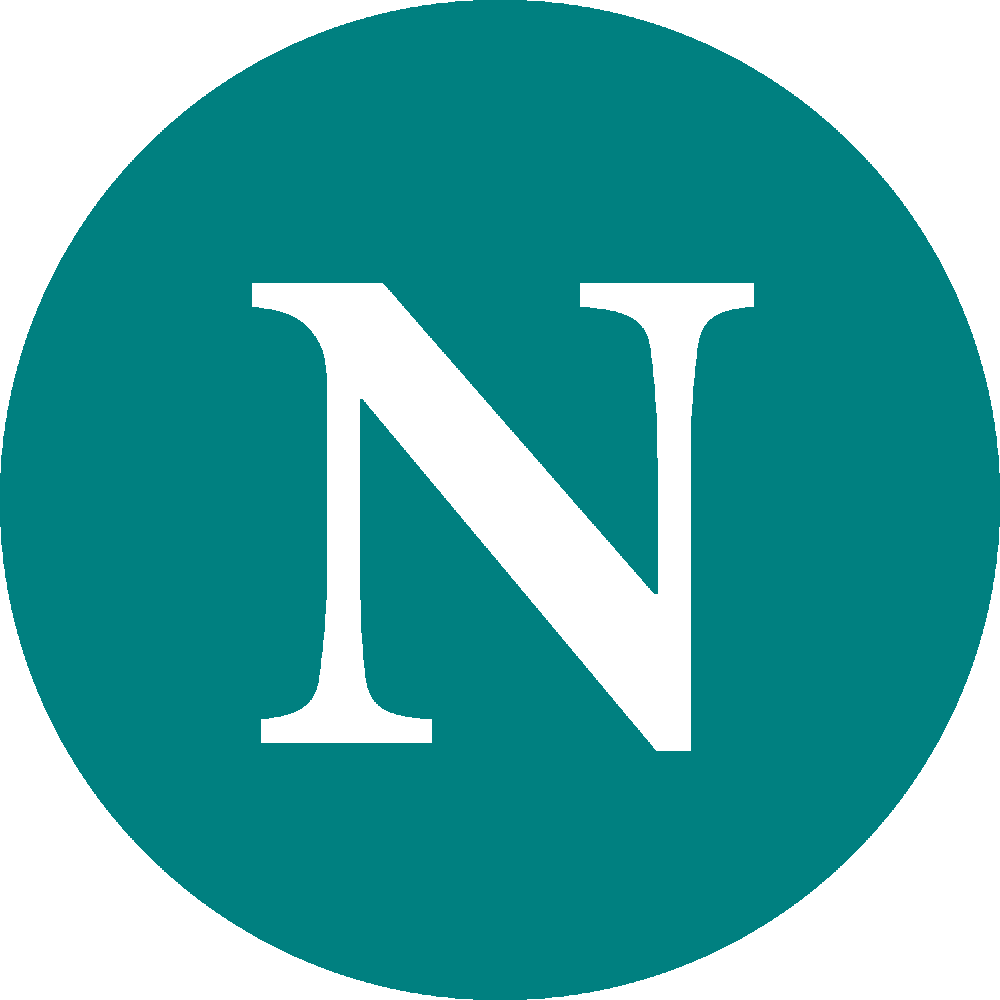
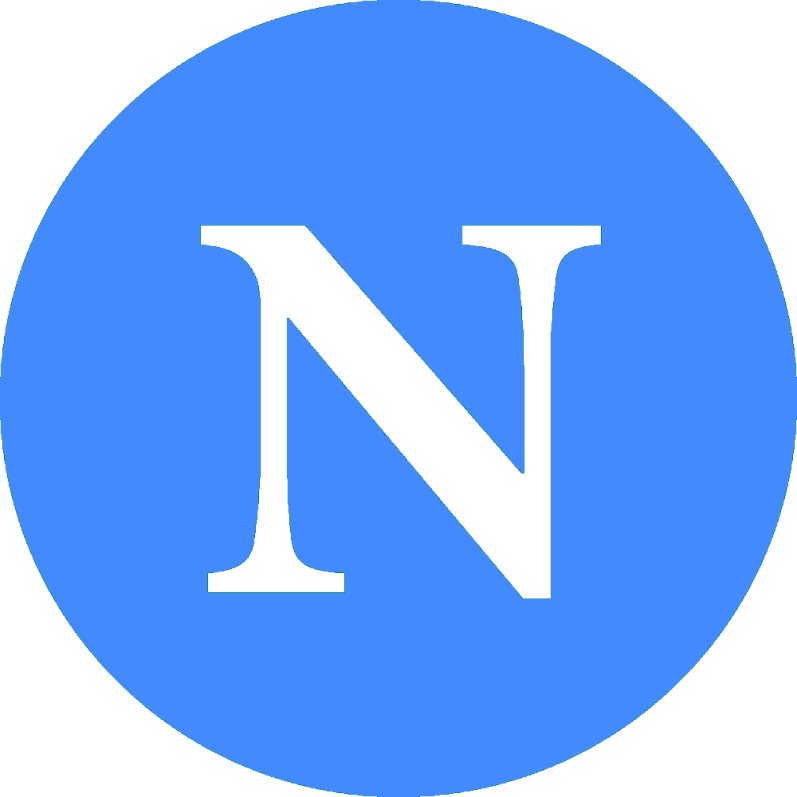
Changed cards text colors, images and background

diff --git a/css/style.css b/css/style.css
@@ -72,20 +72,6 @@ body {
     0 6px 20px 0 rgba(0, 0, 0, 0.19);
 }
 
-/* .first-card {
-  position: relative;
-  display: flex;
-  flex-direction: column;
-  min-width: 0;
-  word-wrap: break-word;
-  background-color: transparent;
-  /* background-image: url(../img/card-background.png); */
-/* background-clip: border-box;
-border-radius: 0.25rem; */
-/* min-height: 250px; */
-/* opacity: 0.90; */
-/* } */
-
 .first-card {
   z-index: -1;
 }
@@ -149,27 +135,22 @@ canvas {
 .card-text {
   font-weight: 450;
   font-size: 20px;
-
-
 }
 
 .card-text-faded {
   font-size: 16px;
-  color: grey;
-}
-
-.dark-text-faded {
-  font-size: 16px;
-  color: #fff;
+  font-weight: 540;
+  color: rgb(71, 71, 71);
 }
 
 .card-text-gold {
-  font-weight: 100;
   font-size: 21px;
+  font-weight: 500;
 }
 
 .card-text-paragraph {
-  font-size: 17px;
+  font-size: 19px;
+  font-weight: 300;
 }
 
 .card-text-date {
@@ -184,10 +165,16 @@ canvas {
   margin-bottom: 0;
 }
 
-.card-text-link {
+/* .card-text-link {
   color: #A73F15;
   text-decoration: none;
   font-size: 15px;
+} */
+
+.card-text-link {
+  color: #01C2FF;
+  text-decoration: none;
+  font-size: 16px;
 }
 
 .card-text-link:hover {
@@ -220,34 +207,6 @@ canvas {
   font-size: large;
   font-weight: large;
 }
-
-.contact-info {
-  -webkit-user-select: none;
-  /* Safari */
-  -moz-user-select: none;
-  /* Firefox */
-  -ms-user-select: none;
-  /* IE10+/Edge */
-  user-select: none;
-  /* Standard */
-}
-
-.contact-brand {
-  -webkit-user-select: none;
-  /* Safari */
-  -moz-user-select: none;
-  /* Firefox */
-  -ms-user-select: none;
-  /* IE10+/Edge */
-  user-select: none;
-  /* Standard */
-}
-
-/* #particles-js {
-  position: absolute;
-  width: 100%;
-  height: 160%;
-} */
 
 #particles-js {
   width: 100%;
@@ -305,13 +264,11 @@ canvas {
 
 @keyframes bg-change-to-dark {
   from {
-    background-color: #B721FF;
-    /* opacity: 1; */
+    background-color: #448AFF;
   }
 
   to {
     background-color: #25233a;
-    /* opacity: 0; */
   }
 }
 
@@ -321,7 +278,7 @@ canvas {
   }
 
   to {
-    background-color: #B721FF;
+    background-color: #448AFF;
   }
 }
 

diff --git a/js/darkmode.js b/js/darkmode.js
@@ -4,10 +4,6 @@ var counter = 0;
 $("input").click(function () {
     counter = 0
     darkMode = !darkMode
-
-    // $("body").css("animation", "change-to-light");
-    // $("body").css("animation", "3s");
-    // $("body").css("-webkit-animation-play-state", "running");
 });
 
 function animate() {
@@ -35,15 +31,14 @@ function animate() {
         $(".card").css("background-color", "#383358")
         $(".card-text-gold").css("color", "#1EA51D")
 
-
-        // $(".card").removeClass("card")
+        $(".card-text-faded").css("color", "#CECECE")
     } else {
         counter++;
         $("body").addClass("bg-lightMode");
         $("body").removeClass("bg-darkMode");
 
         if (counter % 120 == 0) {
-            $('body').css("background", "#B721FF")
+            $('body').css("background", "#448AFF")
             // $('body').css({
             //     background: "-webkit-gradient(linear, left top, left bottom, from(#B721FF), to(#21D4FD))"
             // });
@@ -52,12 +47,10 @@ function animate() {
 
         $(".card").addClass("card-lightMode");
         $(".card").removeClass("card-darkMode");
-        // $('body').css({
-        //     background: "-webkit-gradient(linear, left top, left bottom, from(#B721FF), to(#21D4FD))"
-        // });
         $('body').css("color", "#333");
 
-        $(".card-text-gold").css("color", "#AAA500")
+        $(".card-text-faded").css("color", "#727272")
+        $(".card-text-gold").css("color", "#00838F")
         $(".card").css("background-color", "#fff")
         // $("body").css("background-image", "linear-gradient(0deg, #21D4FD, #B721FF);");
         /* background-image: linear-gradient(0deg, #21D4FD, #B721FF); */

diff --git a/index.html b/index.html
@@ -52,7 +52,7 @@
 
     <div class="body-particles">
       <div class="container" id="first_card">
-        <div class="row justify-content-center" style="padding-top: 50px;">
+        <div class="row justify-content-center" style="padding-top: 30px;">
           <div class="ml-4 col-xl-7 col-lg-8 col-sm-12 col-12" id="first-card">
             <div id="first-canvas-background">
               <div class="card first-card-img" id="first-card-fade">

diff --git a/css/dark-mode.css b/css/dark-mode.css
@@ -15,7 +15,7 @@
   width: 50px;
   background-color: #39315a;
   border-radius: 100px;
-  margin-top: 2px;
+  margin-top: 0px;
   margin-left: 90%;
   display: block;
   box-shadow: inset 0 0 20px rgba(0, 0, 0, 0.2), inset 0 0 5px -2px rgba(0, 0, 0, 0.4);
